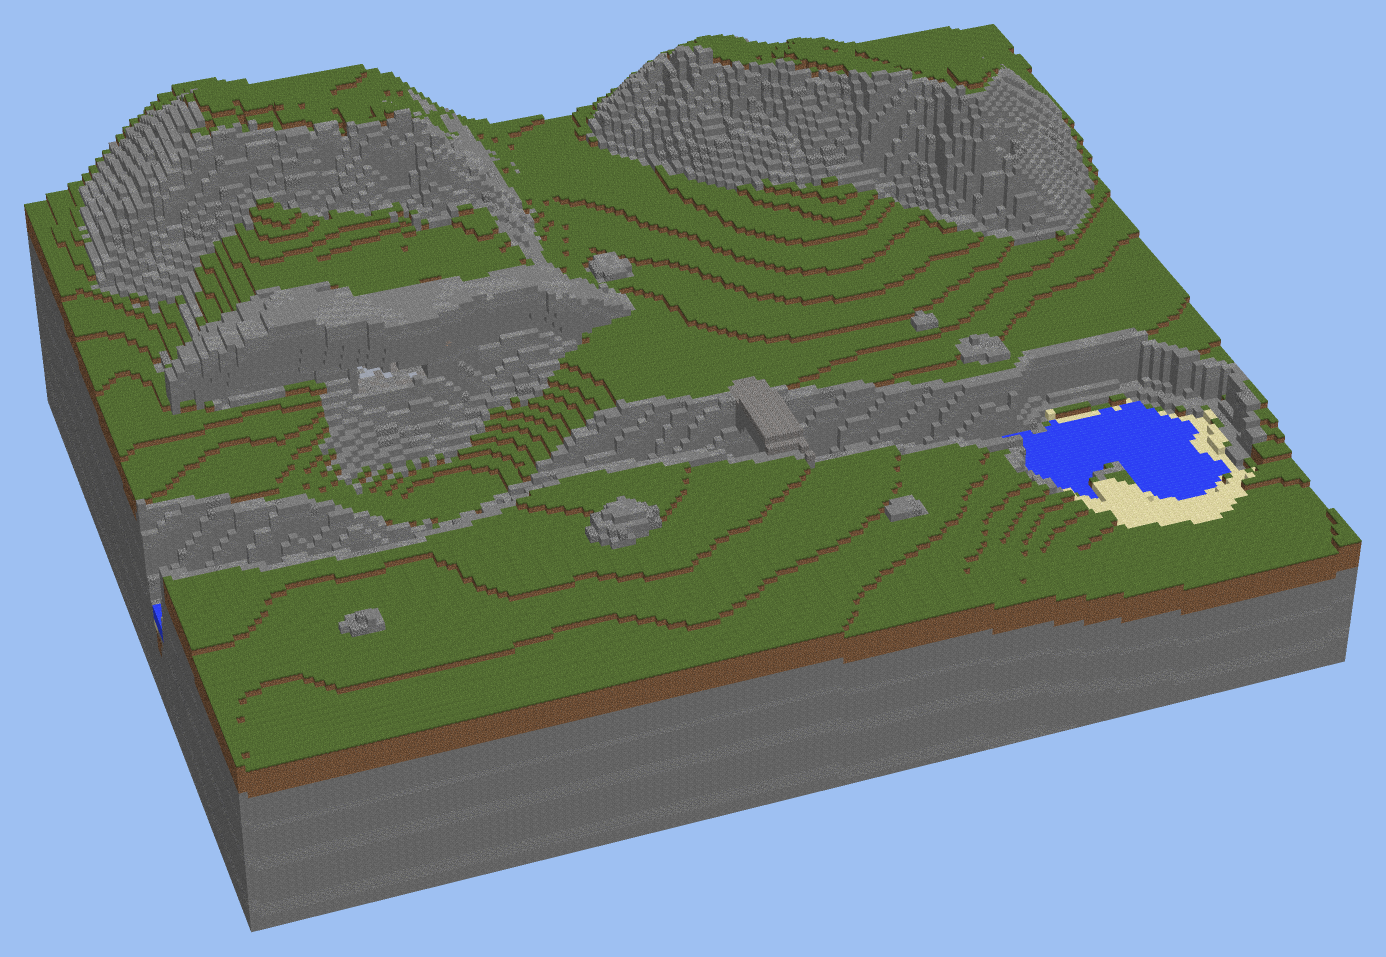
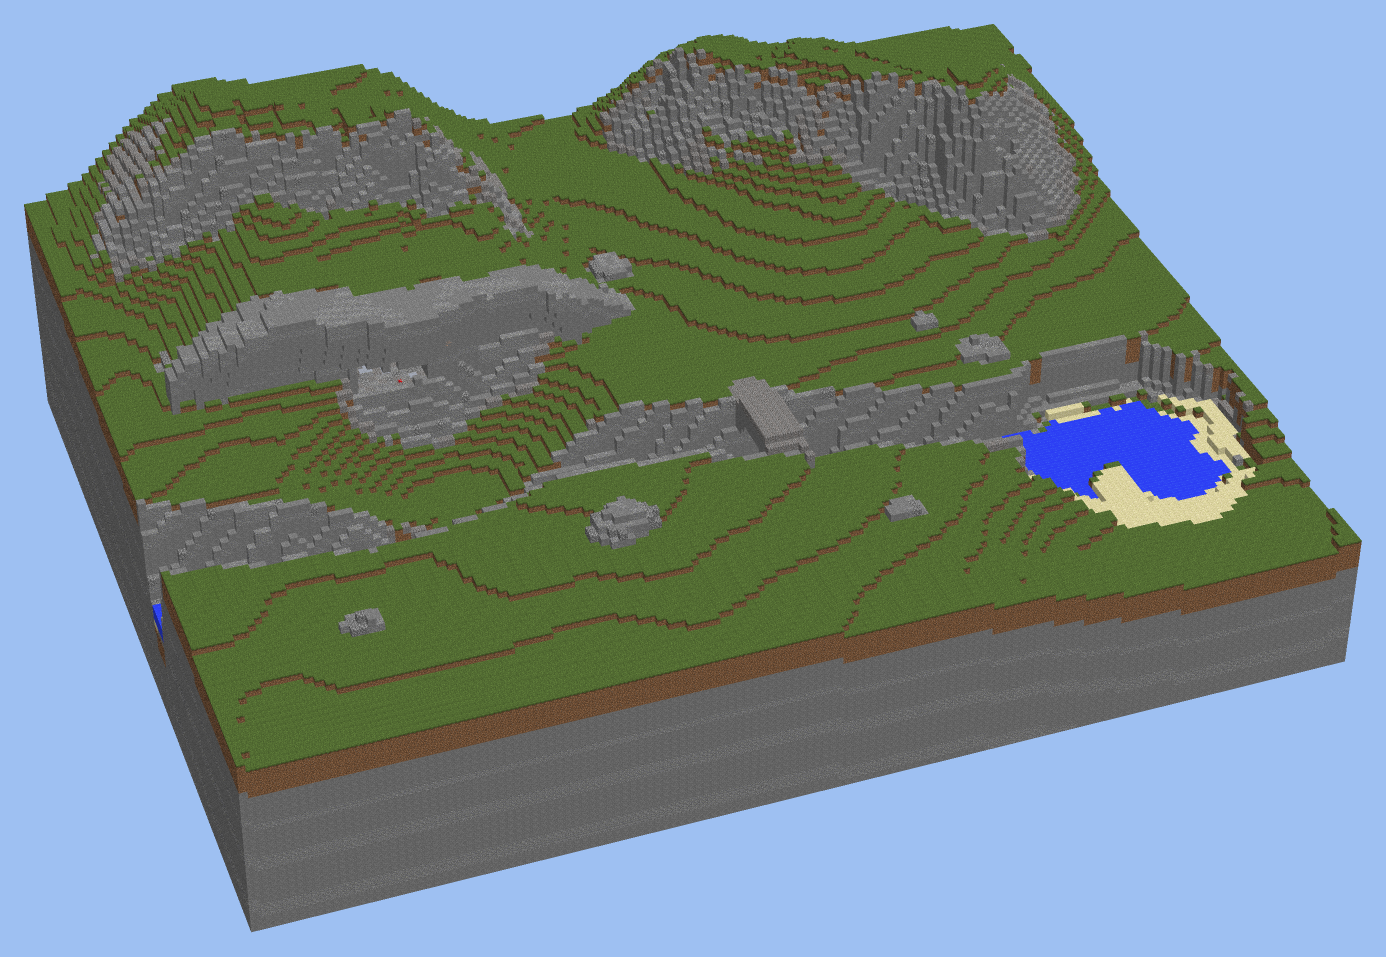
Chantry Gill land: grass higher up the walls, scree above it, rock at the top
Grass and soil now hold to 48 degrees (soil 2 deep to 48, 1 to 54), and on
every ledge inside a face; between 48 and 54 lies scree, gravel in broad
patches on andesite; rock only past 54. The coarse dirt that speckled the
rock is gone.

Claude-Session: https://claude.ai/code/session_01SkxaMovP21NqxJRVezmVa6

diff --git a/freeform/lib/boards/chantry-gill/assets/land_spec.py b/freeform/lib/boards/chantry-gill/assets/land_spec.py
@@ -32,6 +32,7 @@ fields = {
     "small": {"fbm": {"cell": 16, "octaves": 2, "seed": 1}},
     "big": {"fbm": {"cell": 34, "octaves": 3, "seed": 2}},
     "patch": {"fbm": {"cell": 3, "octaves": 2, "seed": 3}},
+    "scree": {"fbm": {"cell": 6, "octaves": 2, "seed": 27}},
     "grain": {"fbm": {"cell": 2, "octaves": 1, "seed": 4}},
     "jag": {"mul": [{"fbm": {"cell": 4, "octaves": 2, "seed": 5}}, 2.5]},
     "talus-reach": {"clip": [{"add": [8, {"mul": [{"fbm": {"cell": 11, "octaves": 2, "seed": 25}}, 9]}]}, 2, 15]},
@@ -106,16 +107,17 @@ paint = [
      "area": {"polygon": TARN, "plus": -0.08}, "noise": {"field": "patch", "lo": 0.1},
      "note": "and ragged a block higher, so its edge is not a contour"},
     {"block": "GRAVEL", "slope": [None, 30], "area": {"line": {"near": "beck", "width": 8}}, "noise": {"field": "patch", "lo": 0}},
-    {"block": ["STONE", 5], "slope": [38, None], "noise": {"field": "patch", "lo": 0.15}},
-    {"block": "COBBLE", "slope": [46, None], "noise": {"field": "grain", "lo": 0.6}},
-    {"block": "GRAVEL", "slope": [38, 48], "noise": {"field": "patch", "lo": 0.35}},
-    {"block": ["STONE", 0], "slope": [38, None]},
+    {"block": ["STONE", 5], "slope": [54, None], "noise": {"field": "patch", "lo": 0.15}},
+    {"block": "COBBLE", "slope": [60, None], "noise": {"field": "grain", "lo": 0.6}},
+    {"block": ["STONE", 0], "slope": [54, None]},
+    {"block": "GRAVEL", "slope": [48, 54], "noise": {"field": "scree", "lo": -0.15}},
+    {"block": ["STONE", 5], "slope": [48, 54]},
 ]
 doc = {
     "document": "layers", "version": "draft-1",
     "board": {"name": "Chantry Gill land", "x": [0, 139], "z": [0, 109], "floor": 40, "height": 90, "seed": 3},
     "fields": fields, "ground": ground, "paint": paint,
-    "lay": {"soil": [[30, 3], [38, 1]], "ledges": False},
+    "lay": {"soil": [[34, 3], [48, 2], [54, 1]], "ledges": True},
     "water": {"bed": [{"block": "GRAVEL", "noise": {"field": "patch", "lo": 0.1}}, {"block": "SAND", "noise": {"field": "patch", "lo": -0.3}}, {"block": "CLAY"}]},
     "levels": [
         {"id": "brow", "floor": TOP,
